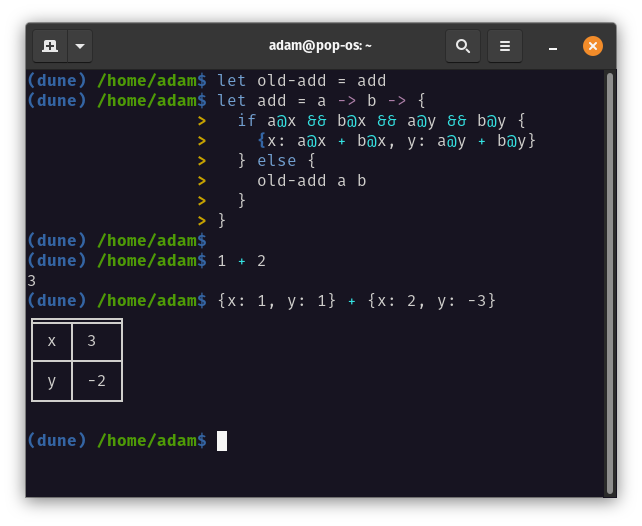
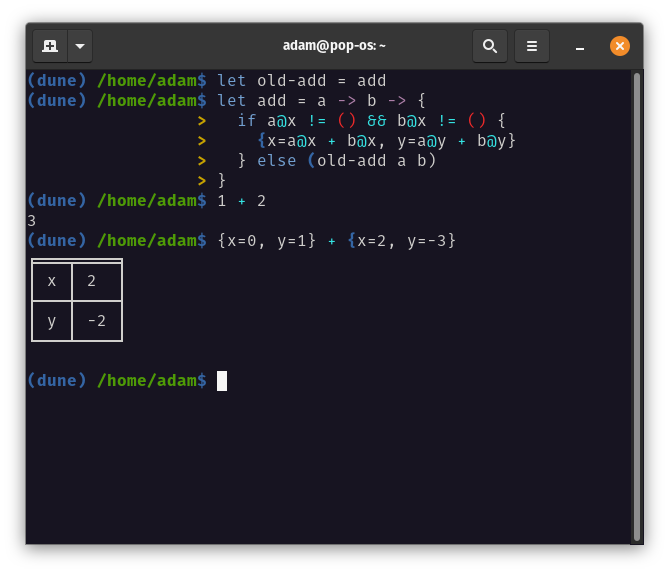
Fixed : operator not being allowed in symbols
Before, when you would try to use `https://github.com` as a symbol, for example,
it would not parse anything after the `:` as a part of the same symbol.

To fix this, I changed the `parse_symbol` function in `parse.rs` to accept any
text with `:` included. As a side effect, though, dictionaries/maps could not
be parsed.

```bash
{x: 0, y: 1}
```

To address this, I changed dictionaries to use `=` as a delimiter instead of `:`
so now dictionaries are written as follows:

```bash
{x=0, y=1}
```

diff --git a/src/parser.rs b/src/parser.rs
@@ -105,6 +105,8 @@ const ASCII_NONZERO_DIGIT: &'static str = "123456789";
 const ASCII_DIGIT: &'static str = "0123456789";
 const ASCII_HEX_DIGIT: &'static str = "0123456789ABCDEFabcdef";
 
+const ALLOWED_SYMBOL_PUNCTUATION: &'static str = "_+-.~\\/?&<>$%#^:";
+
 pub fn parse_script(input: &str, require_eof: bool) -> IResult<&str, Expression, SyntaxError> {
     let (input, _) = try_parse_ws(input)?;
     let (input, mut exprs) = many0(alt((
@@ -185,11 +187,11 @@ fn parse_symbol(input: &str) -> IResult<&str, String, SyntaxError> {
         Err(_) => {
             let old_input = input;
 
-            let (input, head) = alt((one_of(ASCII_ALPHA), one_of("_+-.~\\/?&<>$%#^=")))(input)?;
+            let (input, head) = alt((one_of(ASCII_ALPHA), one_of(ALLOWED_SYMBOL_PUNCTUATION)))(input)?;
 
             let (input, tail) = many0(alt((
                 one_of(ASCII_ALPHANUMERIC),
-                one_of("_+-.~\\/?&<>$%#^="),
+                one_of(ALLOWED_SYMBOL_PUNCTUATION),
             )))(input)?;
 
             let mut result = String::from(head);
@@ -471,7 +473,7 @@ fn parse_map(input: &str) -> IResult<&str, Expression, SyntaxError> {
         tag(","),
         separated_pair(
             delimited(try_parse_ws, parse_symbol, try_parse_ws),
-            tag(":"),
+            tag("="),
             parse_expression,
         ),
     )(input)?;

diff --git a/src/bin.rs b/src/bin.rs
@@ -337,7 +337,7 @@ let MONTHS = [
 ];
 
 let make-calendar = m -> d -> y -> {
-    let now = {month: m, day: d, year: y};
+    let now = {month=m, day=d, year=y};
     let result = MONTHS@(now@month - 1) + " " + (str now@day) + ", " + (str now@year) + "\n";
 	let result = " " * ((28 - (len result)) // 2 + 1) + result;
     let result = result + " Su  Mo  Tu  We  Th  Fr  Sa\n";
